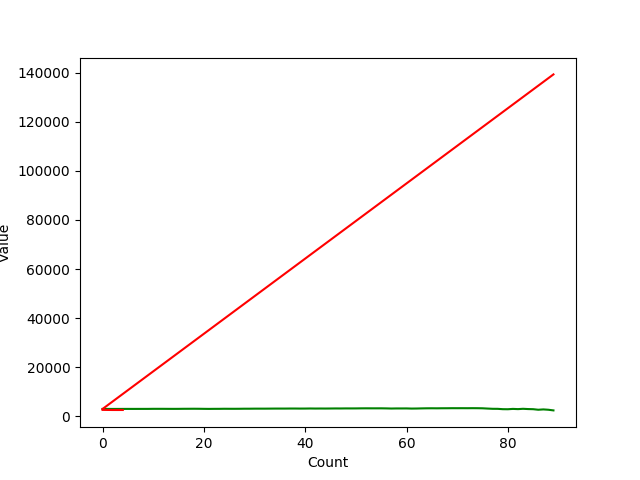
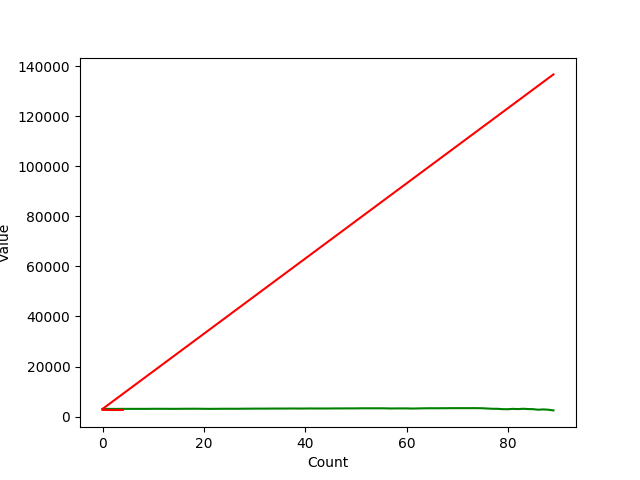
Automated Commision

diff --git a/prediction/sequential.py b/prediction/sequential.py
@@ -42,7 +42,7 @@ def regression_momentum_bias(timeseries, observation_range):
             low_index = i
     
     high_low_slope = 0.00
-    high_low_slope = (timeseries.raw_datapoint(high_index) - timeseries.raw_datapoint(low_index)) / (high_index - low)
+    high_low_slope = (timeseries.raw_datapoint(high_index) - timeseries.raw_datapoint(low_index)) / (high_index - low_index)
 
     slope = (end_point_bias + high_low_slope) / 2
     line = [i * slope + end_point_bias for i in range(timeseries.raw_size())]
